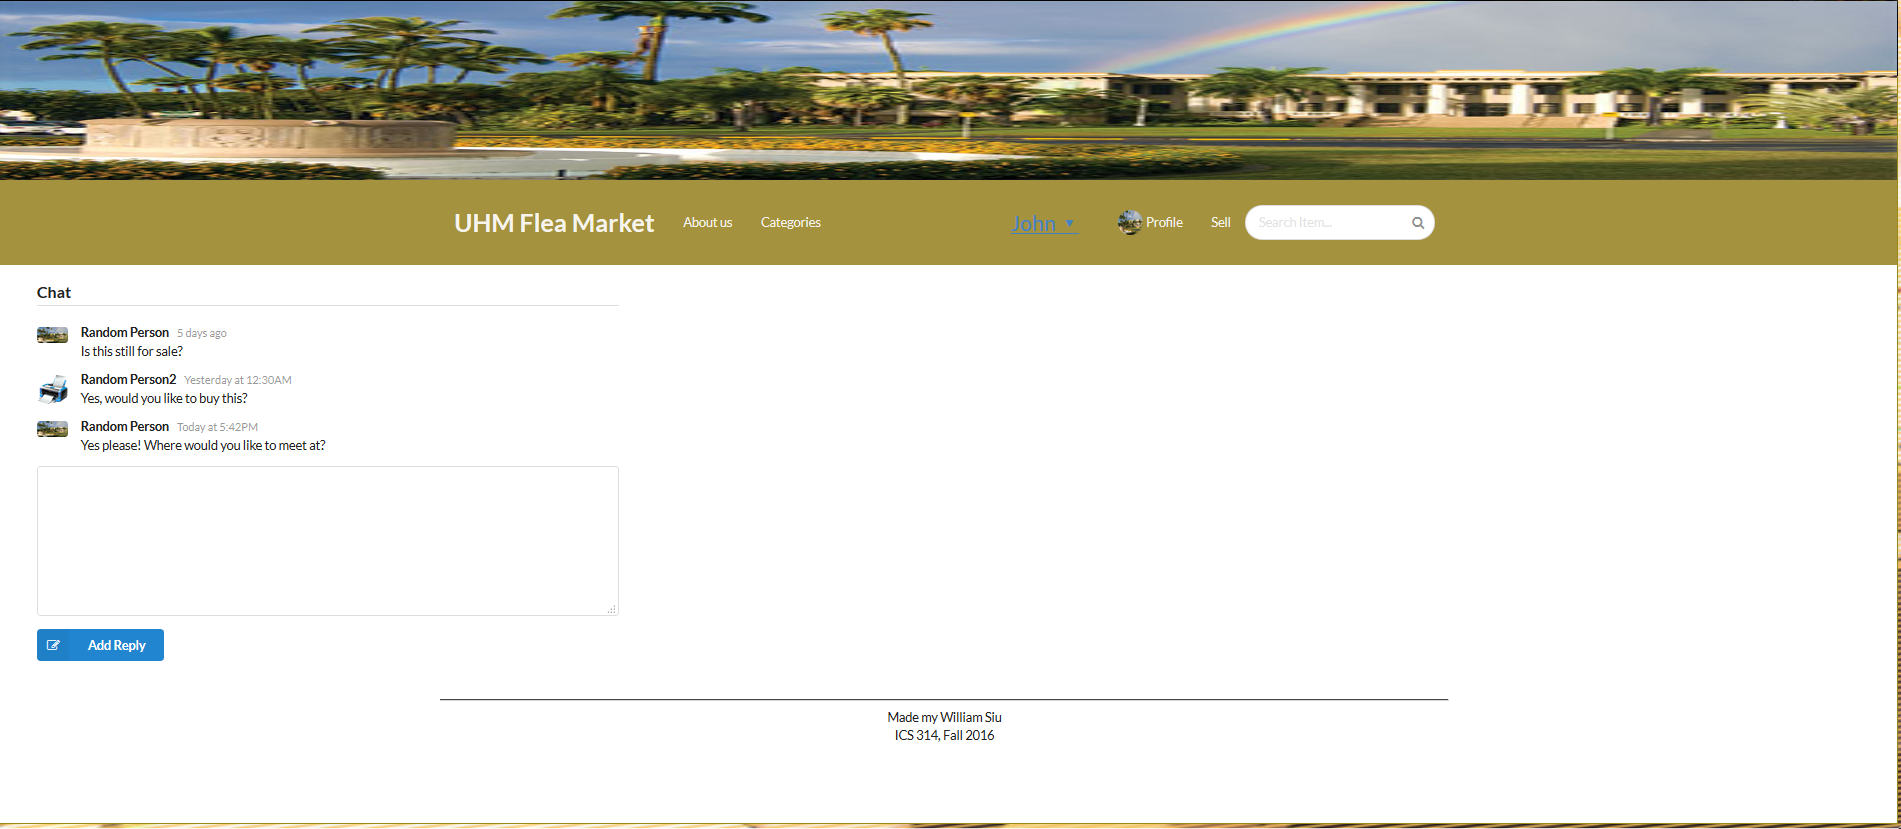
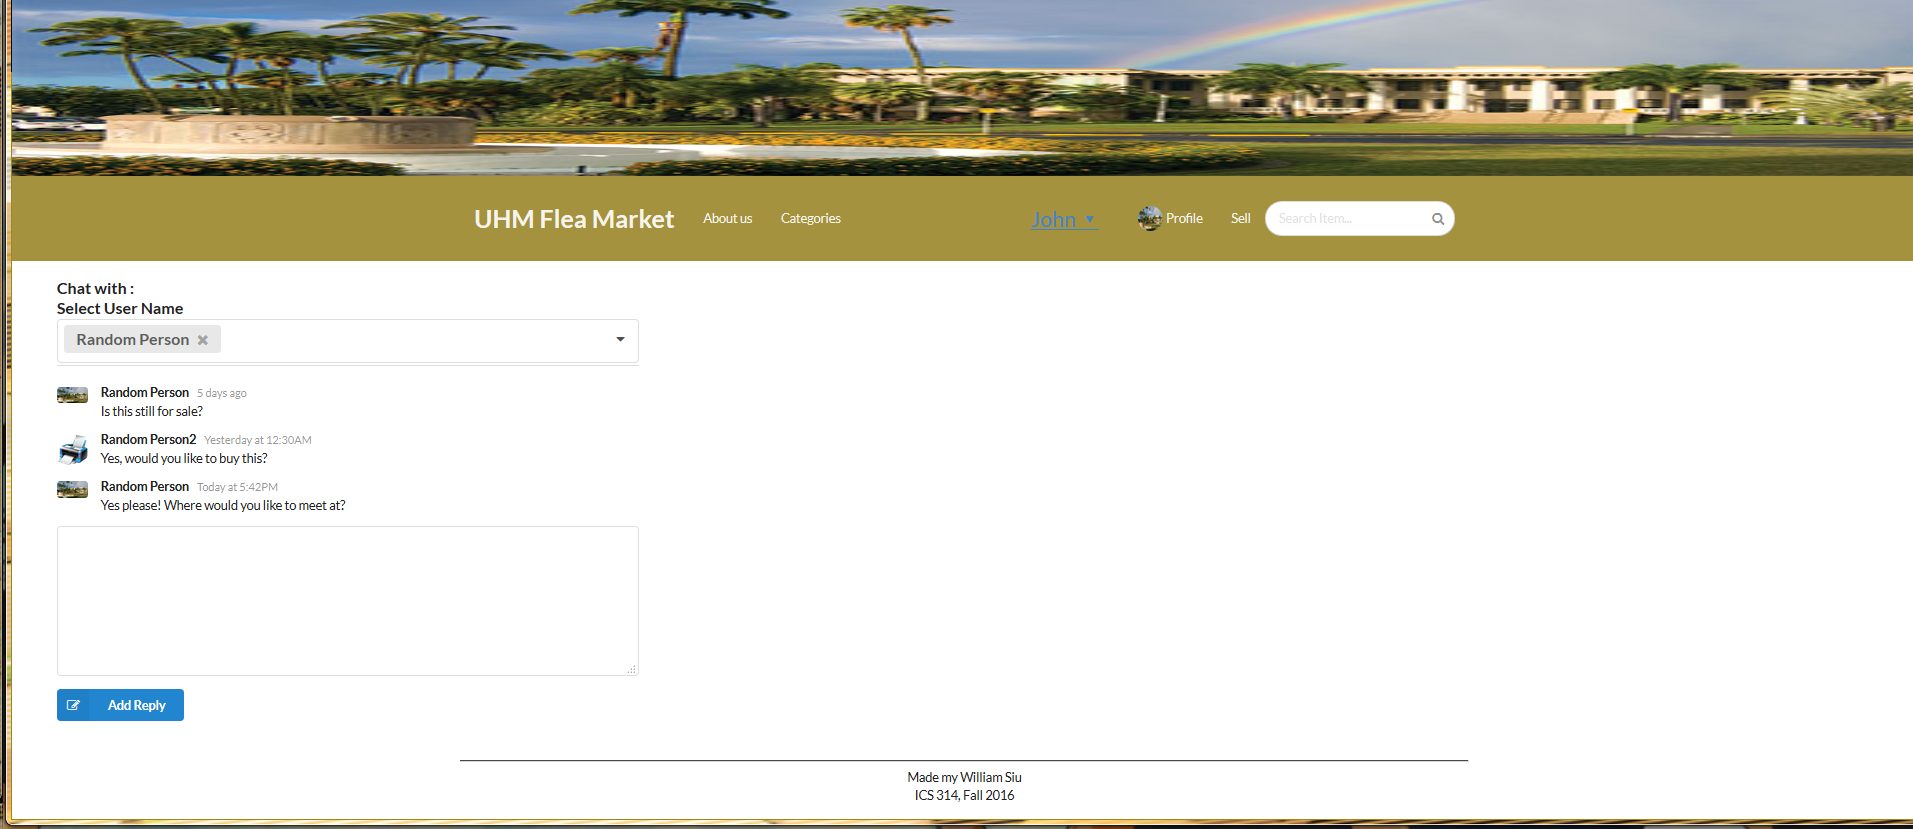
update screenshot;specific user chat

Changed region(s): [[0.0, 0.0, 1.0, 1.0]]

diff --git a/app/imports/ui/pages/message-page.html b/app/imports/ui/pages/message-page.html
@@ -1,7 +1,17 @@
 <template name="Message_Page">
 
   <div class="ui comments" style="margin-left: 50px">
-    <h3 class="ui dividing header">Chat</h3>
+    <h3 class="ui dividing header">
+      Chat with :
+      <div class="field">
+        <label>Select User Name</label>
+        <select multiple="" name="skills" class="ui fluid normal dropdown">
+          <option value="item">Random Person</option>
+          <option value="item">Random Person 3</option>
+
+        </select>
+      </div>
+    </h3>
 
     <div class="comment">
       <a class="avatar">

diff --git a/app/imports/ui/pages/message-page.js b/app/imports/ui/pages/message-page.js
@@ -1,0 +1,11 @@
+import { Template } from 'meteor/templating';
+import { ReactiveDict } from 'meteor/reactive-dict';
+import { FlowRouter } from 'meteor/kadira:flow-router';
+import { _ } from 'meteor/underscore';
+import './sell-page.html';
+
+Template.Message_Page.onRendered(function () {
+  this.$('.dropdown').dropdown({
+    allowAdditions: true,
+  });
+});

diff --git a/app/imports/ui/pages/index.js b/app/imports/ui/pages/index.js
@@ -18,6 +18,7 @@ import './item-page.html';
 import './item-page.js';
 
 import './message-page.html';
+import './message-page.js';
 
 import './profile-page.html';
 
